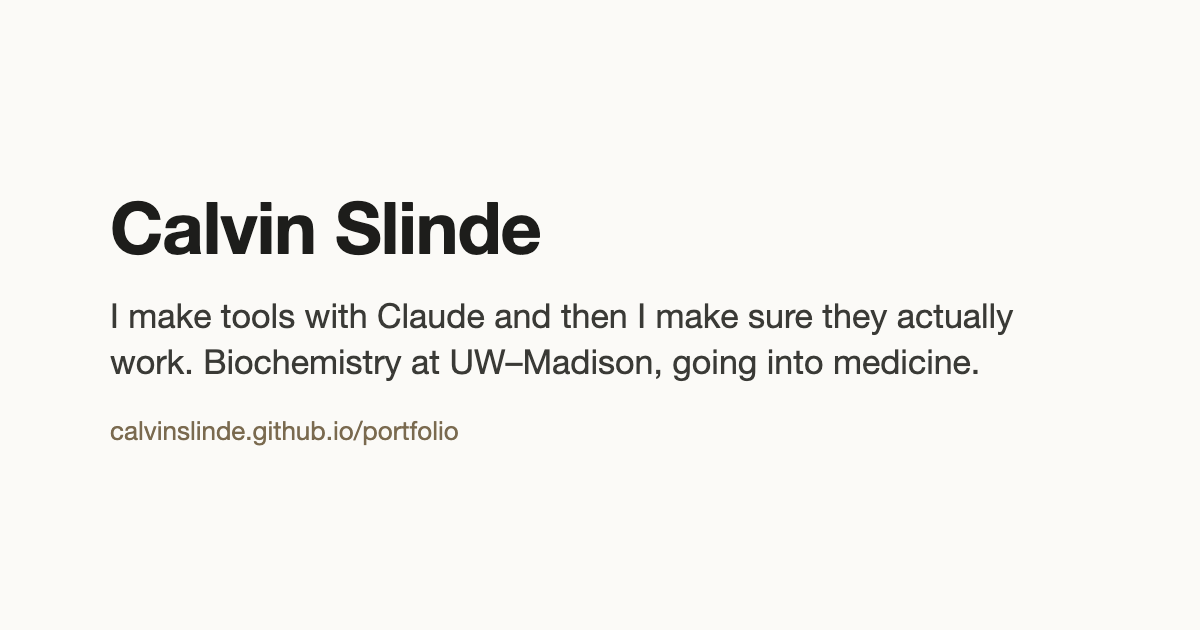
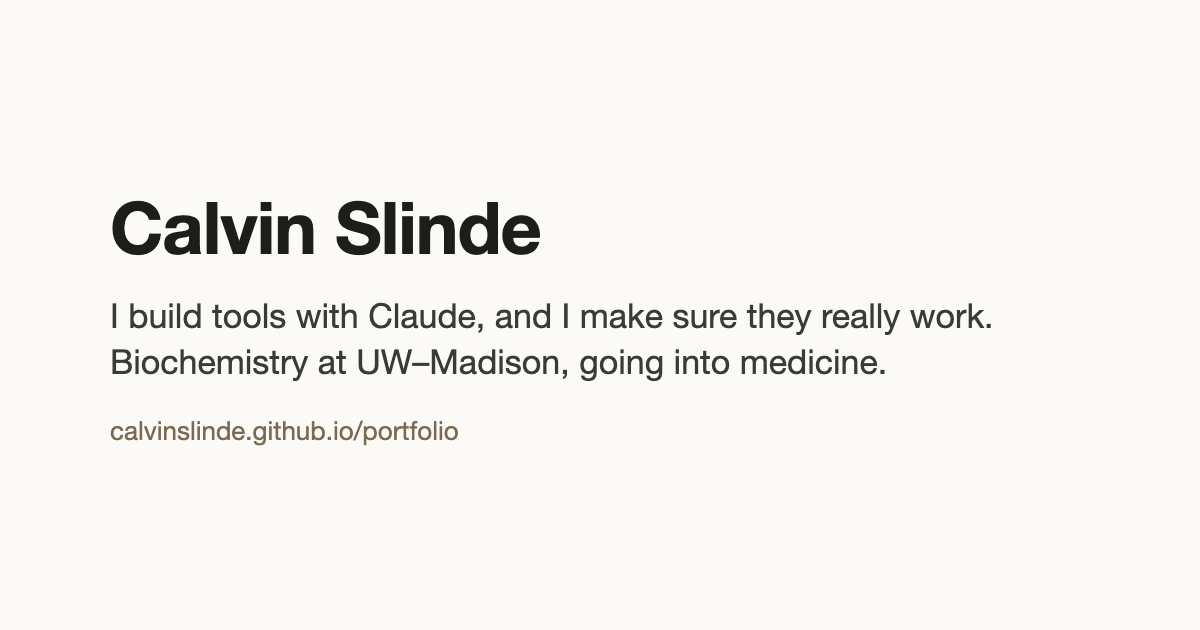
Lead and planner card in my own tone

Changed region(s): [[0.0925, 0.4825, 0.8633, 0.6032]]

diff --git a/index.html b/index.html
@@ -6,13 +6,13 @@
 <title>Calvin Slinde</title>
 <meta property="og:type" content="website">
 <meta property="og:title" content="Calvin Slinde">
-<meta property="og:description" content="I make tools with Claude and then I make sure they actually work. Biochemistry at UW–Madison, going into medicine. What I've built, with the file each claim comes from.">
+<meta property="og:description" content="I build tools with Claude, and I make sure they really work. Biochemistry at UW–Madison, going into medicine. What I've built, with the file each claim comes from.">
 <meta property="og:url" content="https://calvinslinde.github.io/portfolio/">
 <meta property="og:image" content="https://calvinslinde.github.io/portfolio/og-card.png">
 <meta property="og:image:width" content="1200">
 <meta property="og:image:height" content="630">
 <meta name="twitter:card" content="summary_large_image">
-<meta name="description" content="I make tools with Claude and then I make sure they actually work. What I've built, with the file each claim comes from.">
+<meta name="description" content="I build tools with Claude, and I make sure they really work. What I've built, with the file each claim comes from.">
 <style>
   :root {
     --bg: #fbfaf7; --surface: #ffffff; --ink: #1b1b1a; --muted: #5d5b55; --line: #e4e1d9;
@@ -61,7 +61,7 @@
 <main>
   <header>
     <h1>Calvin Slinde</h1>
-    <p class="lead">I make tools with Claude and then I make sure they actually work. I'm finishing a biochemistry degree at UW–Madison and I draw blood at a nonprofit health system. I'm going into medicine.</p>
+    <p class="lead">I build tools with Claude, and I make sure they really work. I'm finishing a biochemistry degree at UW–Madison, and I'm going into medicine. I also draw blood at a nonprofit health system.</p>
     <ul class="links">
       <li><a href="mailto:calvinslinde@gmail.com">calvinslinde@gmail.com</a></li>
       <li><a href="https://www.linkedin.com/in/calvinslinde/">LinkedIn</a></li>
@@ -74,7 +74,7 @@
 
   <article class="card" id="semester">
     <h3>Semester: a deadline planner</h3>
-    <p class="what">I built it with Claude. It reads my course sites, my two inboxes, and my degree audit and tells me what's due. It drafts things and I decide what to do with them. I've used it since September 2026.</p>
+    <p class="what">I built it with Claude. It reads my course sites, my two inboxes, and my degree audit and tells me what's due, so I can just focus on the work. It drafts things for me, and I make the decisions. I've used it since September 2026.</p>
     <dl>
     </dl>
     <p class="source">Source: semester/README.md</p>
@@ -82,7 +82,7 @@
 
   <article class="card" id="council">
     <h3>Council: can many cheap models match one strong one?</h3>
-    <p class="what">I wanted to know if a group of very cheap models could do what one strong model does, and where they would fall short, so I built a test bench to find out.</p>
+    <p class="what">I wanted to know if a group of very cheap models could really do what one strong model does, and where they'd fall short, so I built a test bench to find out.</p>
     <dl>
       <dt>What I measured</dt>
       <dd>I ran <span class="num">220</span> samples across <span class="num">18</span> problems, and then head-to-head trials on an open research problem.</dd>
